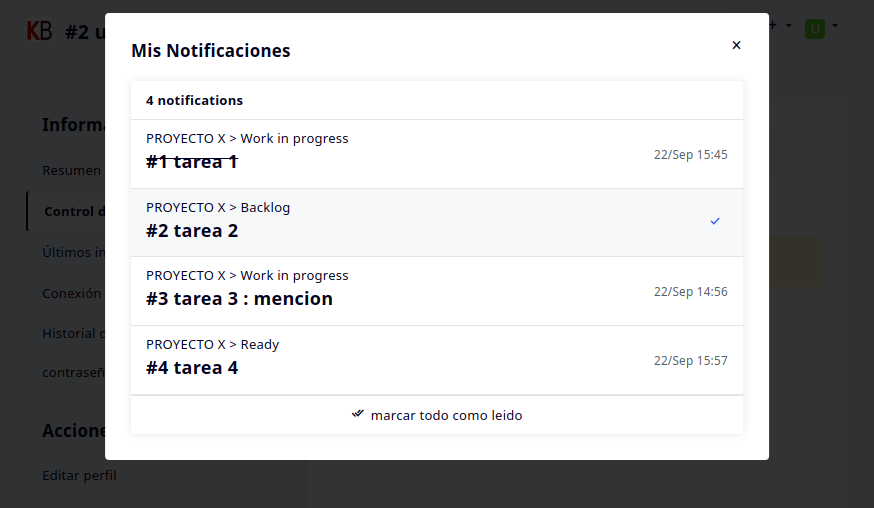
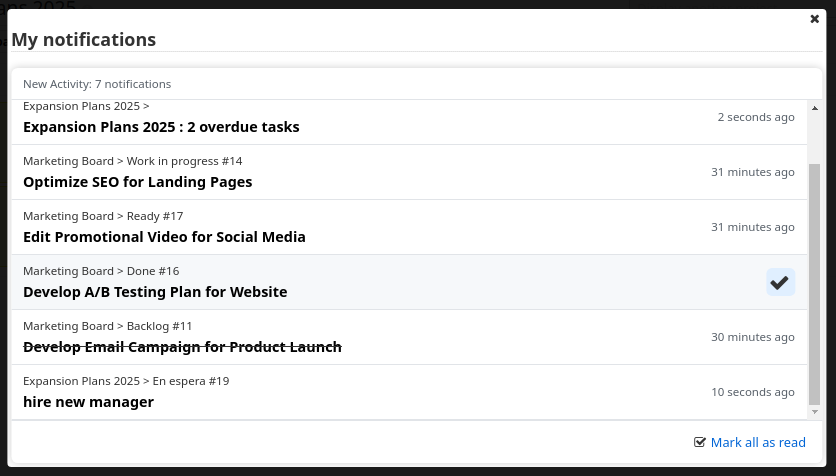
version 1.2.3

diff --git a/Plugin.php b/Plugin.php
@@ -29,7 +29,7 @@ class Plugin extends Base
         if (file_exists($filename)) {
             Translator::load($language, $path);
         } else {
-            Translator::load('es_ES', $path);
+            Translator::load('es_US', $path);
         }
     }
 
@@ -50,7 +50,7 @@ class Plugin extends Base
 
     public function getPluginVersion()
     {
-        return '1.1.0';
+        return '1.2.3';
     }
 
     public function getPluginDescription()

diff --git a/README.md b/README.md
@@ -1,25 +1,17 @@
 # NotifyPlus Plugin for Kanboard
 
-The notifyPlus plugin enhances the web notifications of Kanboard, grouping notifications by tasks, summarizing activity and displaying only relevant information.
+The notifyPlus plugin enhances the web notifications of Kanboard, grouping events by tasks or project.
 
-### Before
-
-![image](https://raw.githubusercontent.com/tomeli5n/NotifyPlus/main/Screenshots/web-notifications.png)
-
-
-### After
 ![image](https://raw.githubusercontent.com/tomeli5n/NotifyPlus/main/Screenshots/grouped-notifications.png)
-
 ## Features
 
-- **Task-Based Notifications**: Notifications are grouped by tasks, providing a summarized view of activity.
-- **Mark as read**: Mark as read all notifications of a task.
-- **Compatibility**: Compatible with normal Kanboard notifications. No migrations is needed.
+- **Task Notifications**: Groups assignments, comments, column changes, due dates, and other task update events into a single notification.
+- **Project Notifications**: Groups overdue tasks of a project into a single notification.
+- **Mark as read**: Mark all notifications as read, or only the notifications of a specific task.
 
 ## Upcoming Features
 
 - **Enhanced Notification Details**: Display more information about the type of notification, such as due date, column changes, mentions, etc.
-- **Show Non-Task Notifications**: Extend notification support to include notifications not directly related to tasks.
 - **Pin Notifications**: The tasks is not flushed when clicked.
 - **Feature Flag**: Enable/Disable the plugin and its features.
 
